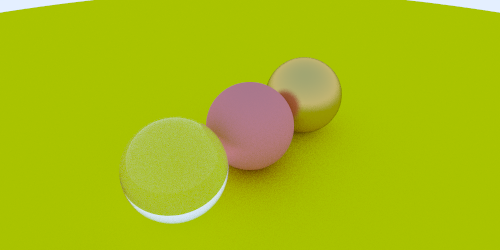
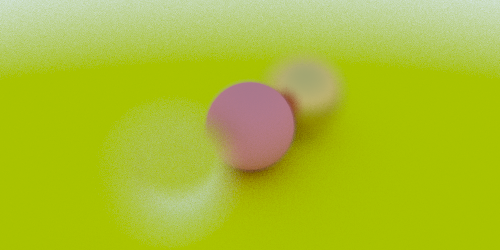
Added blur effect to camera

diff --git a/src/camera.rs b/src/camera.rs
@@ -1,3 +1,4 @@
+use rand;
 use std::f32;
 
 use vec3::{Ray, Vec3};
@@ -8,10 +9,33 @@ pub struct Camera {
     lower_left_corner: Vec3,
     horizontal: Vec3,
     vertical: Vec3,
+    u: Vec3,
+    v: Vec3,
+    lens_radius: f32,
+}
+
+fn random_in_unit_disc() -> Vec3 {
+    let mut p = Vec3::new(0.0, 0.0, 0.0);
+    loop {
+        p = Vec3::new(rand::random::<f32>(), rand::random::<f32>(), 0.0) * 2.0 -
+            Vec3::new(1.0, 1.0, 0.0);
+        if p.dot(p) < 1.0 {
+            break;
+        }
+    }
+    p
 }
 
 impl Camera {
-    pub fn new(lookfrom: Vec3, lookat: Vec3, vup: Vec3, vfov: f32, aspect: f32) -> Self {
+    pub fn new(
+        lookfrom: Vec3,
+        lookat: Vec3,
+        vup: Vec3,
+        vfov: f32,
+        aspect: f32,
+        aperture: f32,
+        focus_dist: f32,
+    ) -> Self {
         let theta = vfov * f32::consts::PI / 180.0;
         let half_height = (theta / 2.0).tan();
         let half_width = aspect * half_height;
@@ -19,17 +43,22 @@ impl Camera {
         let u = vup.cross(w).unit();
         let v = w.cross(u);
         Camera {
-            lower_left_corner: lookfrom - u * half_width - v * half_height - w,
-            horizontal: u * 2.0 * half_width,
-            vertical: v * 2.0 * half_height,
+            lower_left_corner: lookfrom - (u * half_width + v * half_height + w) * focus_dist,
+            horizontal: u * 2.0 * half_width * focus_dist,
+            vertical: v * 2.0 * half_height * focus_dist,
             origin: lookfrom,
+            u: u,
+            v: v,
+            lens_radius: aperture / 2.0,
         }
     }
 
-    pub fn get_ray(&self, u: f32, v: f32) -> Ray {
+    pub fn get_ray(&self, s: f32, t: f32) -> Ray {
+        let rd = random_in_unit_disc() * self.lens_radius;
+        let offset = self.u * rd.x() + self.v * rd.y();
         Ray::new(
-            self.origin,
-            self.lower_left_corner + self.horizontal * u + self.vertical * v - self.origin,
+            self.origin + offset,
+            self.lower_left_corner + self.horizontal * s + self.vertical * t - self.origin - offset,
         )
     }
 }

diff --git a/src/main.rs b/src/main.rs
@@ -65,12 +65,16 @@ fn main() {
     )));
 
     let mut image_buf = image::ImageBuffer::new(width, height);
+    let lookfrom = Vec3::new(-2.0, 2.0, 1.0);
+    let lookat = Vec3::new(0.0, 0.0, -1.0);
     let camera = Camera::new(
-        Vec3::new(-2.0, 2.0, 1.0),
-        Vec3::new(0.0, 0.0, -1.0),
+        lookfrom,
+        lookat,
         Vec3::new(0.0, 1.0, 0.0),
         45.0,
         2.0,
+        2.0,
+        (lookfrom - lookat).length(),
     );
 
     for (x, y, pixel) in image_buf.enumerate_pixels_mut() {
